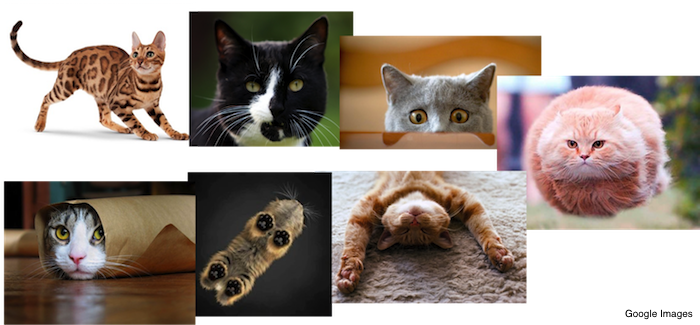
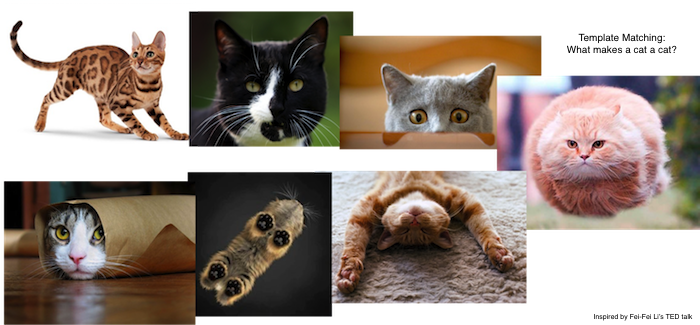
update

Changed region(s): [[0.81, 0.0923, 0.96, 0.1846], [0.84, 0.9538, 0.99, 0.9846]]

diff --git a/_posts/2016-07-31-visual-processing-review-p1.md b/_posts/2016-07-31-visual-processing-review-p1.md
@@ -1,0 +1,47 @@
+---
+layout: post
+title: Visual infomation processing with biologically-realistic neural networks (1)
+tags: [vision, snn, series]
+description: Part 1 - Introduction to the series.
+comments: true
+---
+
+Vision for us is so natural, rapid and effortless. But how do we recognise a cat as a cat? We might be identifying multiple features such as its ears, its nose, its shape and size. We might have a template for a cat in our brains, with which we match the input image. Template matching sounds promising but is a procedure that is ridiculously complex. For example, what would the template of a cat contain, and how would the images in the figure below be comparable to that template? 
+
+<center>![Template of a cat?]({{site:url}}/assets/cats_all.png 'Template of a cat?')</center>
+
+There are two routes to go from these images to the template:
+
+1. Non-linear 3D spatial transformations and non-linear transformations on color intensities.
+    - Distorting the image and changing the color profile to fit the template.
+2. Recognise individual features (ears, eyes, etc.) in those images and build the template using them.
+
+The first route can encompass the second, as individual feature recognisers could be treated as non-linear transformations on the pixel map. We will see in the next section that handpicked features do not provide optimal performance, making the first route the choice for exploring visual information processing. 
+
+We might be employing a complex template matching approach, but stating that isn't enough. How do we implement these non-linear transformations? How does a network of neurons implement object recognition? In this series of posts, I will peek at the attempts to solve this problem, from the mathematical, algorithmic and neuroscience perspectives. The objective is to understand how a biologically-realistic neural network could implement visual information processing.
+
+The series (4 sections, will update as I proceed):
+
+```
+Visual infomation processing with biologically-realistic NNs
+├── P1: Introduction
+├── P2: Previous Work
+│   ├── Outline
+│   ├── Computer Vision
+│   ├── Biological Modelling
+│   ├── SNNs
+│   ├── Ruminations
+│   └── Additions to the problem
+│       └── Unsupervised learning
+├── P3: Working with SNNs
+│   ├── Outline
+│   ├── Architectural constraints
+│   │   ├── Operational principles
+│   │   └── Neural models
+│   └── Learning Rules
+│       ├── ReSuMe, etc
+│       └── Backpropagation modified?
+└── P4: Concluding Remarks
+```
+
+Visual information processing also includes attentional mechanisms, motion processing and top-down priming. I will focus most on static images and object recognition here, as a start. I will discuss the other aspects in the final section.

diff --git a/blog/tags/vision.md b/blog/tags/vision.md
@@ -1,0 +1,6 @@
+---
+layout: blog_by_tag
+tag: vision
+permalink: /blog/tags/vision/
+description: Articles related to visual information processing and the biological visual machinery.
+---

diff --git a/blog/tags/series.md b/blog/tags/series.md
@@ -1,0 +1,6 @@
+---
+layout: blog_by_tag
+tag: series
+permalink: /blog/tags/series/
+description: Collecting articles which belong to a topic series.
+---
